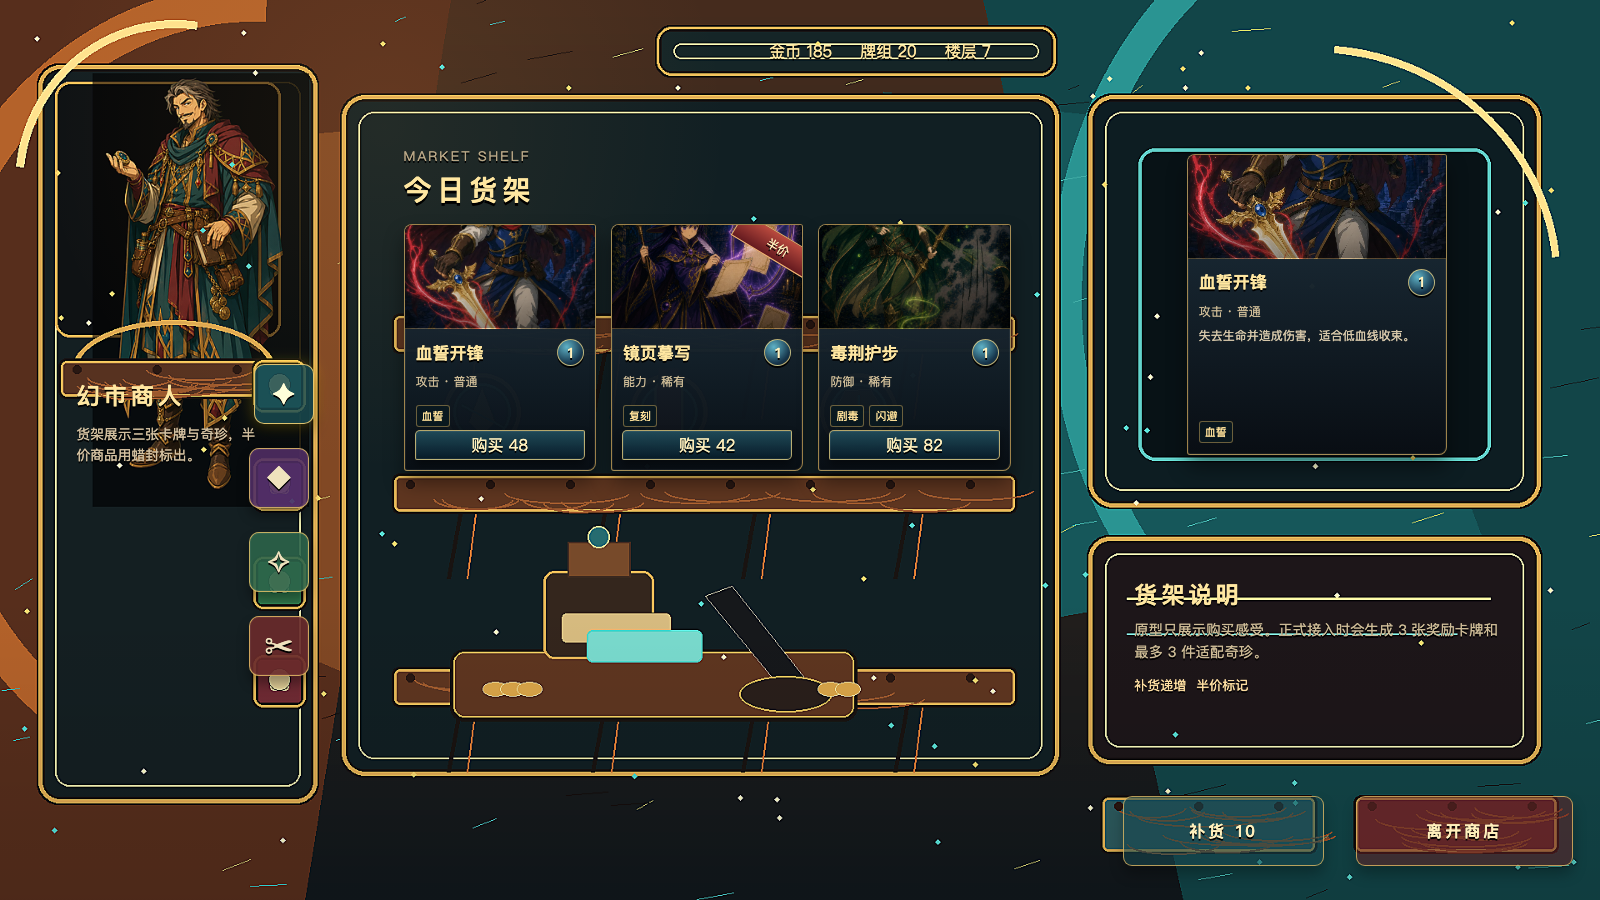
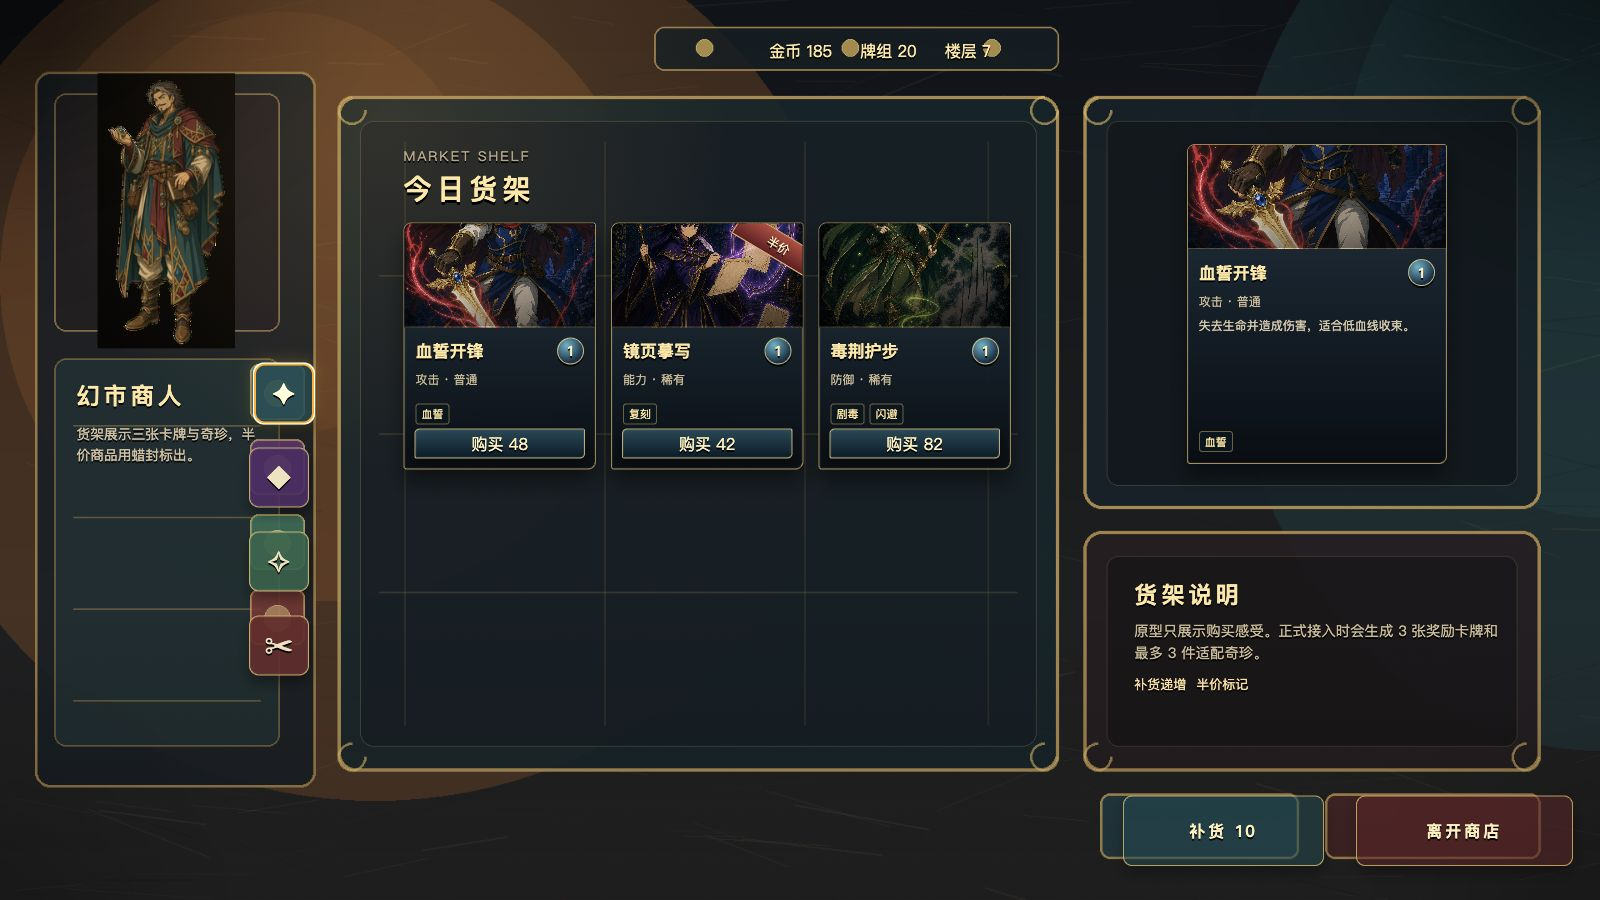
Revert "Update shop art prototype"
This reverts commit 640f7fdc4685dab62f29d66b7f9987a0adc1b6be.

diff --git a/assets/candidates/ui/shop/prototype/shop_prototype.html b/assets/candidates/ui/shop/prototype/shop_prototype.html
@@ -41,7 +41,7 @@
       aspect-ratio: 16 / 9;
       position: relative;
       overflow: hidden;
-      background: #070b10 url("./shop_art_plate_v2.png") center / cover no-repeat;
+      background: #070b10 url("./shop_prototype_plate_v1.png") center / cover no-repeat;
       box-shadow: 0 24px 70px rgba(0, 0, 0, 0.75);
     }
 
@@ -51,8 +51,8 @@
       inset: 0;
       pointer-events: none;
       background:
-        radial-gradient(circle at 24% 14%, rgba(255, 190, 94, 0.08), transparent 24%),
-        linear-gradient(180deg, transparent 66%, rgba(0, 0, 0, 0.12));
+        radial-gradient(circle at 24% 14%, rgba(255, 190, 94, 0.11), transparent 24%),
+        linear-gradient(180deg, transparent 66%, rgba(0, 0, 0, 0.16));
     }
 
     .resource-strip {
@@ -154,12 +154,6 @@
       z-index: 2;
     }
 
-    #content-body {
-      position: relative;
-      height: calc(100% - 70px);
-      min-height: 0;
-    }
-
     .content-head {
       display: flex;
       align-items: flex-start;
@@ -213,7 +207,7 @@
       display: grid;
       grid-template-columns: repeat(3, minmax(0, 1fr));
       gap: 15px;
-      height: 100%;
+      height: calc(100% - 70px);
       align-content: start;
     }
 
@@ -343,28 +337,8 @@
       display: grid;
       grid-template-columns: repeat(3, minmax(0, 1fr));
       gap: 16px;
-      height: auto;
+      height: calc(100% - 74px);
       align-content: start;
-      position: relative;
-      z-index: 2;
-    }
-
-    .relic-showcase {
-      height: 100%;
-      display: grid;
-      grid-template-rows: minmax(116px, 34%) 1fr;
-      gap: 10px;
-      min-height: 0;
-    }
-
-    .relic-tray-art {
-      width: min(94%, 560px);
-      max-height: 146px;
-      object-fit: contain;
-      justify-self: center;
-      align-self: center;
-      filter: drop-shadow(0 16px 18px rgba(0,0,0,0.5));
-      pointer-events: none;
     }
 
     .relic-token {
@@ -411,29 +385,12 @@
     .deck-layout {
       display: grid;
       grid-template-columns: minmax(0, 1fr);
-      height: 100%;
-      position: relative;
-      min-height: 0;
-    }
-
-    .service-workbench-art {
-      position: absolute;
-      right: 2%;
-      bottom: 1%;
-      width: min(44%, 280px);
-      opacity: 0.32;
-      filter: drop-shadow(0 16px 18px rgba(0,0,0,0.56));
-      pointer-events: none;
-      z-index: 0;
+      height: calc(100% - 74px);
     }
 
     .deck-list {
       overflow-y: auto;
       padding-right: 9px;
-      position: relative;
-      z-index: 2;
-      -webkit-mask-image: linear-gradient(180deg, transparent 0, black 20px, black calc(100% - 24px), transparent 100%);
-      mask-image: linear-gradient(180deg, transparent 0, black 20px, black calc(100% - 24px), transparent 100%);
       scrollbar-width: thin;
       scrollbar-color: rgba(216,176,95,0.52) rgba(0,0,0,0.2);
     }
@@ -445,8 +402,7 @@
       padding: 8px 10px;
       border: 1px solid rgba(216,176,95,0.32);
       border-radius: 6px;
-      background: linear-gradient(90deg, rgba(15,33,40,0.9), rgba(7,12,18,0.76));
-      backdrop-filter: blur(2px);
+      background: linear-gradient(90deg, rgba(15,33,40,0.94), rgba(7,12,18,0.84));
       display: grid;
       grid-template-columns: 38px 1fr auto;
       gap: 11px;
@@ -527,7 +483,7 @@
     .detail .proto-card {
       width: min(260px, 78%);
       height: 100%;
-      min-height: 300px;
+      min-height: 320px;
       transform: none;
     }
 
@@ -804,18 +760,15 @@
       contextAction.textContent = '补货 10';
       renderFilters(false);
       body.innerHTML = `
-        <div class="relic-showcase">
-          <img class="relic-tray-art" src="./shop_art_relic_tray.png" alt="">
-          <div class="relic-grid">
-            ${relics.map(relic => `
-              <button class="relic-token">
-                <div class="relic-icon">${relic.icon}</div>
-                <div class="relic-name">${relic.name}</div>
-                <div class="relic-desc">${relic.desc}</div>
-                <div class="tag-row" style="justify-content:center;"><span class="tag">${relic.sale ? '半价 ' : ''}${relic.price} 金</span></div>
-              </button>
-            `).join('')}
-          </div>
+        <div class="relic-grid">
+          ${relics.map(relic => `
+            <button class="relic-token">
+              <div class="relic-icon">${relic.icon}</div>
+              <div class="relic-name">${relic.name}</div>
+              <div class="relic-desc">${relic.desc}</div>
+              <div class="tag-row" style="justify-content:center;"><span class="tag">${relic.sale ? '半价 ' : ''}${relic.price} 金</span></div>
+            </button>
+          `).join('')}
         </div>
       `;
       detail.innerHTML = `<div class="empty-state">奇珍详情会在这里显示<br>正式接入时读取真实遗物描述</div>`;
@@ -842,7 +795,6 @@
       const selected = cards.find(card => card.id === selectedId) || list[0] || cards[0];
       body.innerHTML = `
         <div class="deck-layout">
-          <img class="service-workbench-art" src="./shop_art_service_workbench.png" alt="">
           <div class="deck-list">
             ${list.map(card => deckRowHTML(card, selected.id, mode)).join('')}
           </div>

diff --git a/assets/candidates/ui/shop/prototype/README.md b/assets/candidates/ui/shop/prototype/README.md
@@ -5,15 +5,11 @@
 ## 文件
 
 - `shop_prototype.html`：可直接打开的交互原型。
-- `shop_art_plate_v2.png`：当前接入的商店美术底板。
-- `shop_art_service_workbench.png`：拓印 / 精简服务页的透明 PNG 装饰件。
-- `shop_art_relic_tray.png`：奇珍页的透明 PNG 陈列托盘。
-- `shop_prototype_plate_v1.png`：上一版原型底板，保留用于对比。
+- `shop_prototype_plate_v1.png`：原型用商店美术底板。
 - `shop_prototype_market.png`：货架状态验证截图。
 - `shop_prototype_relic.png`：奇珍状态验证截图。
 - `shop_prototype_copy.png`：拓印状态验证截图。
 - `shop_prototype_delete.png`：精简状态验证截图。
-- `build_shop_art_assets.py`：当前候选 PNG 的生成脚本，方便继续调底板布局和功能装饰件。
 
 ## 范围
 
